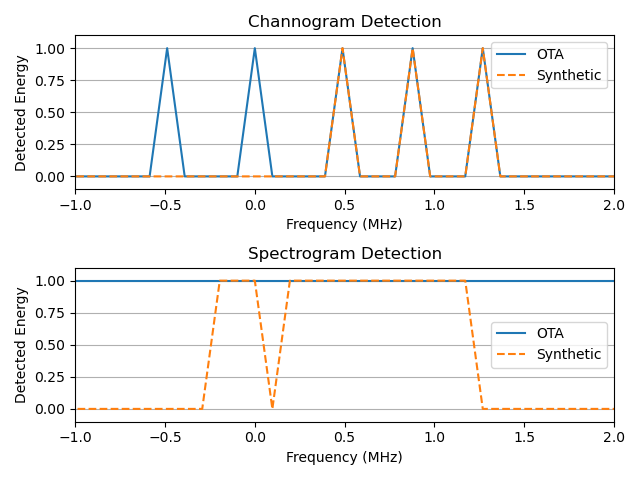
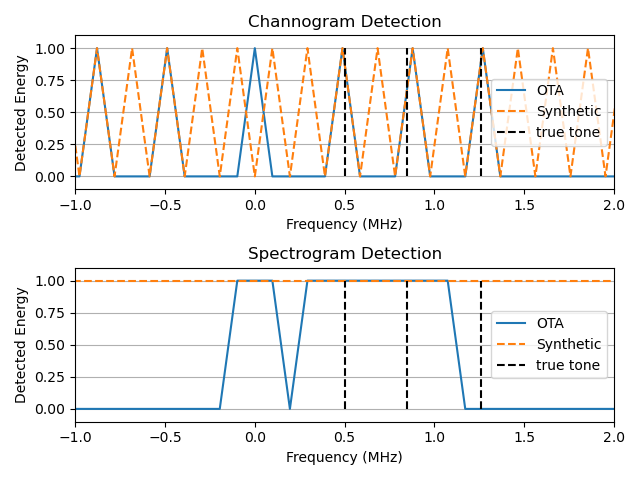
Use Median Filter as noise_floor

Changed region(s): [[0.0938, 0.0938, 0.9688, 0.375], [0.125, 0.5625, 0.9688, 0.875]]

diff --git a/test_scripts/tone_test_spectrogram.py b/test_scripts/tone_test_spectrogram.py
@@ -1,20 +1,30 @@
 import numpy as np 
 import scipy.signal as sig 
-from scipy.signal import resample_poly
+from scipy.signal import medfilt 
 import os 
 import matplotlib.pyplot as plt 
 
-SYNTHETIC_THRESHOLD = -40.0
-OTA_THRESHOLD = -33.0
 
-def detect(norm_iq, is_synth=False):
+def detect(norm_iq, noise_floors, is_synth=False, channogram=False):
     """
     Detect the energy in the normalized IQ data. This will return
     a logical array where the energy is above a certain threshold.
     """
-    threshold_db = SYNTHETIC_THRESHOLD if is_synth else OTA_THRESHOLD
+    multiplier = 1.5
+    offset = 10*np.log10(multiplier)
+    
+    if is_synth and channogram:
+        threshold_db = offset + noise_floors[0]
+        print("Threshold: ", threshold_db)
+    elif is_synth and not channogram:
+        threshold_db = offset + noise_floors[1]
+    elif not is_synth and channogram:
+        threshold_db = offset + noise_floors[2]
+    else:
+        threshold_db = offset + noise_floors[3]
+        
     energy = np.array([x > threshold_db for x in norm_iq])    
-    return energy
+    return (threshold_db, energy)
     
 
 def find_continuous_segments(logical_array):
@@ -44,9 +54,9 @@ def combine_continuous_segments(segments):
     """
     Combine the continuous segments into a single value.
     """
-    combined = np.zeros(len(segments), dtype="int")
-    for i, segement in enumerate(segments):
-        combined[i] = int(np.mean(segement))
+    combined = np.zeros(len(segments), dtype="float")
+    for i, segment in enumerate(segments):
+        combined[i] = float(np.mean(segment))
     return combined
 
 def find_fcs(detected_energy, fs):
@@ -61,19 +71,11 @@ def save_fcs(fcs_ota_channogram, fcs_synth_channogram, fcs_ota_spectrogram, fcs_
     with open(filename, "w") as f:
         f.write("Center frequency of detected energy in OTA Channogram:")
         for fcs in fcs_ota_channogram:
-            f.write("\n"+ str(fcs) + " MHz")
-        f.write("\n")
-        f.write("\nCenter frequency of detected energy in Synthetic Channogram:")
-        for fcs in fcs_synth_channogram:
-            f.write("\n"+ str(fcs) + " MHz")
+            f.write(f"\n {fcs:.4f} MHz")
         f.write("\n")
         f.write("\nCenter frequency of detected energy in OTA Spectrogram:")
         for fcs in fcs_ota_spectrogram:
-            f.write("\n"+ str(fcs) + " MHz")
-        f.write("\n")
-        f.write("\nCenter frequency of detected energy in Synthetic Spectrogram:")
-        for fcs in fcs_synth_spectrogram:
-            f.write("\n"+ str(fcs) + " MHz")
+            f.write(f"\n {fcs:.4f} MHz")
         f.write("\n")
         
 if __name__ == "__main__":
@@ -105,6 +107,7 @@ if __name__ == "__main__":
     ax[0].plot([0.5, 0.5], [-60, 0], linestyle="--", color="black", label="true tone")
     ax[0].plot([0.85, 0.85], [-60, 0], linestyle="--", color="black")
     ax[0].plot([1.26, 1.26], [-60, 0], linestyle="--", color="black")
+    
     #ax[1].plot(2.5 - 5.0 * np.array([ind for ind in range(0, 1024)][::-1]).astype("float32") / 1024, reduced_iq[::-1])
     # ax[0].axes.set_aspect('auto')
     # ax[0].axes.set_ylabel("sample count")
@@ -138,7 +141,7 @@ if __name__ == "__main__":
     reshaped_spec = np.fft.fftshift(np.abs(spec), axes=0).transpose()
     # c = new_ax[0].pcolor(np.fft.fftshift(fsp)[400:650], t, reshaped_spec, vmax=10)
     reduced_psd = 10*np.log10(np.fft.fftshift(psd) / np.max(psd))
-    ax[1].plot(np.fft.fftshift(f)[start_fft_index:stop_fft_index], reduced_psd[::-1][start_fft_index:stop_fft_index], label="ota")
+    ax[1].plot(np.fft.fftshift(f)[start_fft_index+1:stop_fft_index+1], reduced_psd[::-1][start_fft_index:stop_fft_index], label="ota")
 
     # new_ax[0].axes.set_aspect('auto')
     # new_ax[0].axes.set_ylabel("sample count")
@@ -155,11 +158,13 @@ if __name__ == "__main__":
     # reshaped_spec = np.fft.fftshift(np.abs(spec), axes=0).transpose()
     # c = new_ax[0].pcolor(np.fft.fftshift(fsp)[400:650], t, reshaped_spec, vmax=10)
     reduced_psd_ = 10*np.log10(np.fft.fftshift(psd_) / np.max(psd_))
-    ax[1].plot(np.fft.fftshift(f_)[start_fft_index:stop_fft_index], reduced_psd_[::-1][start_fft_index:stop_fft_index], linestyle='--', label="synthetic")
+    ax[1].plot(np.fft.fftshift(f_)[start_fft_index+1:stop_fft_index+1], reduced_psd_[::-1][start_fft_index:stop_fft_index], linestyle='--', label="synthetic")
     ax[1].plot([0.5, 0.5], [-60, 0], linestyle="--", color="black", label="true tone")
     ax[1].axes.legend(loc="best")
     ax[1].plot([0.85, 0.85], [-60, 0], linestyle="--", color="black")
     ax[1].plot([1.26, 1.26], [-60, 0], linestyle="--", color="black")
+    
+    
     # new_ax[0].axes.set_aspect('auto')
     # new_ax[0].axes.set_ylabel("sample count")
     ax[1].axes.set_aspect('auto')
@@ -170,17 +175,33 @@ if __name__ == "__main__":
     ax[1].axes.set_ylim(-60.0, 0)
     ax[1].axes.set_xlim(-1.0, 2.0)
     ax[1].axes.grid(axis="y", which="major")
+    
+    filtered_iq = medfilt(reduced_iq, kernel_size=5)
+    filtered_psd = medfilt(reduced_psd, kernel_size=29)
 
+    noise_floors = [np.mean(synth_reduced_iq), np.mean(reduced_psd_), np.mean(filtered_iq),  np.mean(reduced_psd)]
+    
+    ax[0].plot(fs / 2 - fs * np.array([ind for ind in range(start_index, stop_index)][::-1]).astype("float32") / 1024, filtered_iq[start_index:stop_index][::-1], linestyle="--", label="filtered ota")
+    ax[1].plot(fs / 2 - fs * np.array([ind for ind in range(start_fft_index+1, stop_fft_index+1)][::-1]).astype("float32") / 1024, filtered_psd[start_fft_index+1:stop_fft_index+1][::-1], linestyle="--", label="filtered ota")
+    
 
+    # Detect energy in reduced_iq and synth_reduced_iq
+    # filtered_iq = medfilt(synth_reduced_iq, kernel_size=5)
+    # filtered_iq = medfilt(reduced_psd, kernel_size=5)
+    # filtered_iq = medfilt(reduced_psd_, kernel_size=5)
+
+    
+    threshold_ota_channogram, detected_energy_ota_channogram = detect(reduced_iq, noise_floors, False, True)
+    threshold_synthetic_channogram, detected_energy_synthetic_channogram = detect(synth_reduced_iq, noise_floors, True, True)
+    
+    threshold_ota_spectro, detected_energy_ota_spectro = detect(reduced_psd, noise_floors)
+    threshold_synthetic_spectro, detected_energy_synthetic_spectro = detect(reduced_psd_, noise_floors, True)
+    
+    ax[0].plot([-fs/2, fs/2], [threshold_ota_channogram, threshold_ota_channogram], linestyle="--", color="red", label="OTA Threshold")
+    ax[1].plot([-fs/2, fs/2], [threshold_ota_spectro, threshold_ota_spectro], linestyle="--", color="red", label="OTA Threshold")
+    
     fig.tight_layout()
     fig.savefig("../images/chann_spectrogram.png")
-
-
-    # Detect energy in reduced_iq and synth_reduced_iq    
-    detected_energy_ota_channogram = detect(reduced_iq)
-    detected_energy_synthetic_channogram = detect(synth_reduced_iq, True)
-    detected_energy_ota_spectro = detect(reduced_psd)
-    detected_energy_synthetic_spectro = detect(reduced_psd_, True)
      
     fcs_ota_channogram = find_fcs(detected_energy_ota_channogram, fs)[::-1]
     fcs_synthetic_channogram = find_fcs(detected_energy_synthetic_channogram, fs)[::-1]
@@ -190,9 +211,7 @@ if __name__ == "__main__":
     save_fcs(fcs_ota_channogram, fcs_synthetic_channogram, fcs_ota_spectro, fcs_synthetic_spectro,"../images/fcs.txt")
     
     print("Detected energy in OTA Channogram: ", fcs_ota_channogram)
-    print("Detected energy in Synthetic Channogram: ", fcs_synthetic_channogram)
     print("Detected energy in OTA Spectrogram: ", fcs_ota_spectro)
-    print("Detected energy in Synthetic Spectrogram: ", fcs_synthetic_spectro)
     
     detect_fig, detect_ax = plt.subplots(2,1)
     
@@ -204,17 +223,28 @@ if __name__ == "__main__":
     detect_ax[0].axes.grid(axis="y", which="major")
     detect_ax[0].axes.set_ylim(-0.1, 1.1)
     detect_ax[0].axes.set_xlim(-1.0, 2.0)
+    
+    detect_ax[0].plot([0.5, 0.5], [0, 1], linestyle="--", color="black", label="true tone")
+    detect_ax[0].plot([0.85, 0.85], [0, 1], linestyle="--", color="black")
+    detect_ax[0].plot([1.26, 1.26], [0, 1], linestyle="--", color="black")
+    
     detect_ax[0].axes.legend(loc="best")
     
-    detect_ax[1].axes.plot(np.fft.fftshift(f_)[start_fft_index:stop_fft_index], detected_energy_ota_spectro[::-1][start_fft_index:stop_fft_index], label="OTA")
-    detect_ax[1].axes.plot(np.fft.fftshift(f_)[start_fft_index:stop_fft_index], detected_energy_synthetic_spectro[::-1][start_fft_index:stop_fft_index], linestyle="--", label="Synthetic")
+    detect_ax[1].axes.plot(np.fft.fftshift(f)[start_fft_index+1:stop_fft_index+1], detected_energy_ota_spectro[::-1][start_fft_index:stop_fft_index], label="OTA")
+    detect_ax[1].axes.plot(np.fft.fftshift(f_)[start_fft_index+1:stop_fft_index+1], detected_energy_synthetic_spectro[::-1][start_fft_index:stop_fft_index], linestyle="--", label="Synthetic")
     detect_ax[1].axes.set_title("Spectrogram Detection")
     detect_ax[1].axes.set_xlabel("Frequency (MHz)")
     detect_ax[1].axes.set_ylabel("Detected Energy")
     detect_ax[1].axes.grid(axis="y", which="major")
     detect_ax[1].axes.set_ylim(-0.1, 1.1)
     detect_ax[1].axes.set_xlim(-1.0, 2.0)
+    
+    detect_ax[1].plot([0.5, 0.5], [0, 1], linestyle="--", color="black", label="true tone")
+    detect_ax[1].plot([0.85, 0.85], [0, 1], linestyle="--", color="black")
+    detect_ax[1].plot([1.26, 1.26], [0, 1], linestyle="--", color="black")
+    
     detect_ax[1].axes.legend(loc="best")
+    
     
     detect_fig.tight_layout()
     detect_fig.savefig("../images/detection.png")
